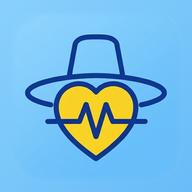
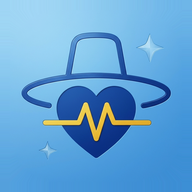
앱 아이콘을 고화질 원본(남색 하트·반짝이)으로 다시 만들기

diff --git a/기획문서/03_디자인_시스템.md b/기획문서/03_디자인_시스템.md
@@ -30,7 +30,7 @@
 - 입력칸: 48px 높이, 회색 채움, 포커스 시 브랜드 테두리
 - 하단 탭 5개, 가운데 + 버튼만 브랜드색 채움
 - 공유 카드(1080×1350): 울트라마린 바탕(또는 사진 + 어두운 그라데이션), 흰 워드마크 + 노란 점, 큰 수치 3칸, 노란 약올리기 말풍선
-- 앱 아이콘(10-23 교체): '갓 심박수' — 하늘색 바탕 + 남색 갓 + 노란 하트·심박선. 원본 `이미지생성/갓-생살기 아이콘 제안.png`(git 제외)에서 상자만 잘라 가장자리까지 채우고 원형 마스크 대비 90%로 축소
+- 앱 아이콘(10-23 교체): '갓 심박수' — 하늘색 바탕 + 남색 갓·하트 + 노란 심박선 + 반짝이 2개. 원본 `이미지생성/Gemini_Generated_Image_rqpm2zrqpm2zrqpm.png`(git 제외)에서 상자 안쪽만 잘라 모서리는 안쪽 색을 늘려 채우고, 원형 마스크 대비 90%로 축소
 
 ## 하지 말 것
 - 하단 고정 띠 배너·전면 광고 (광고는 피드 10개당 1개, 카드 모양 네이티브 광고만)
